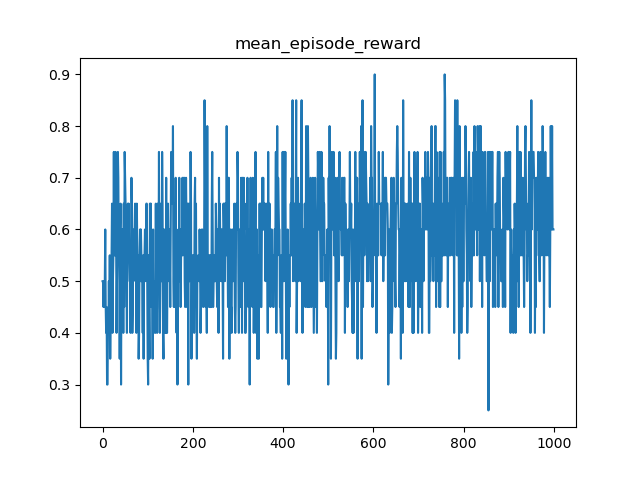
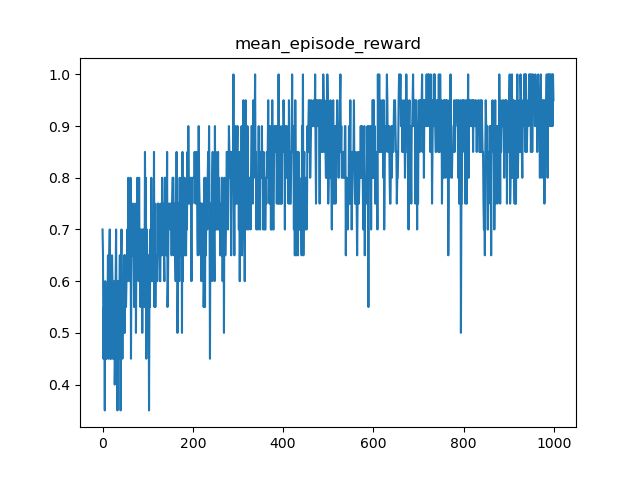
up

diff --git a/src/main.py b/src/main.py
@@ -19,8 +19,8 @@ def simple_game():
     n_actions = 2
     hidden_dim = 16
     trainer_args = dict(value_loss_coef=1, actor_loss_coef=1, entropy_coef=1e-4, learning_rate=2e-3)
-    ac = MlpACManual(obs_dim, n_actions, hidden_dim, cpu=False); trainer = A2C(ac, **trainer_args)
-    # ac = MlpACTorch(obs_dim, n_actions, hidden_dim); trainer = A2CTorch(ac, **trainer_args)
+    # ac = MlpACManual(obs_dim, n_actions, hidden_dim, cpu=False); trainer = A2C(ac, **trainer_args)
+    ac = MlpACTorch(obs_dim, n_actions, hidden_dim); trainer = A2CTorch(ac, **trainer_args)
 
     traj = Traj(episode_steps)
     obs = np.random.randint(0, 2, (N_parallel, obs_dim)).astype(np.float32)
@@ -56,7 +56,7 @@ def simple_game():
         duration = time.time() - start_time
         print(f"SPE = {duration/(e + 1)}")
 
-    ac.free_intermediate()
+    # ac.free_intermediate()
     end_time = time.time()
     duration = end_time - start_time
     print(f"Training completed in {duration} seconds.")
